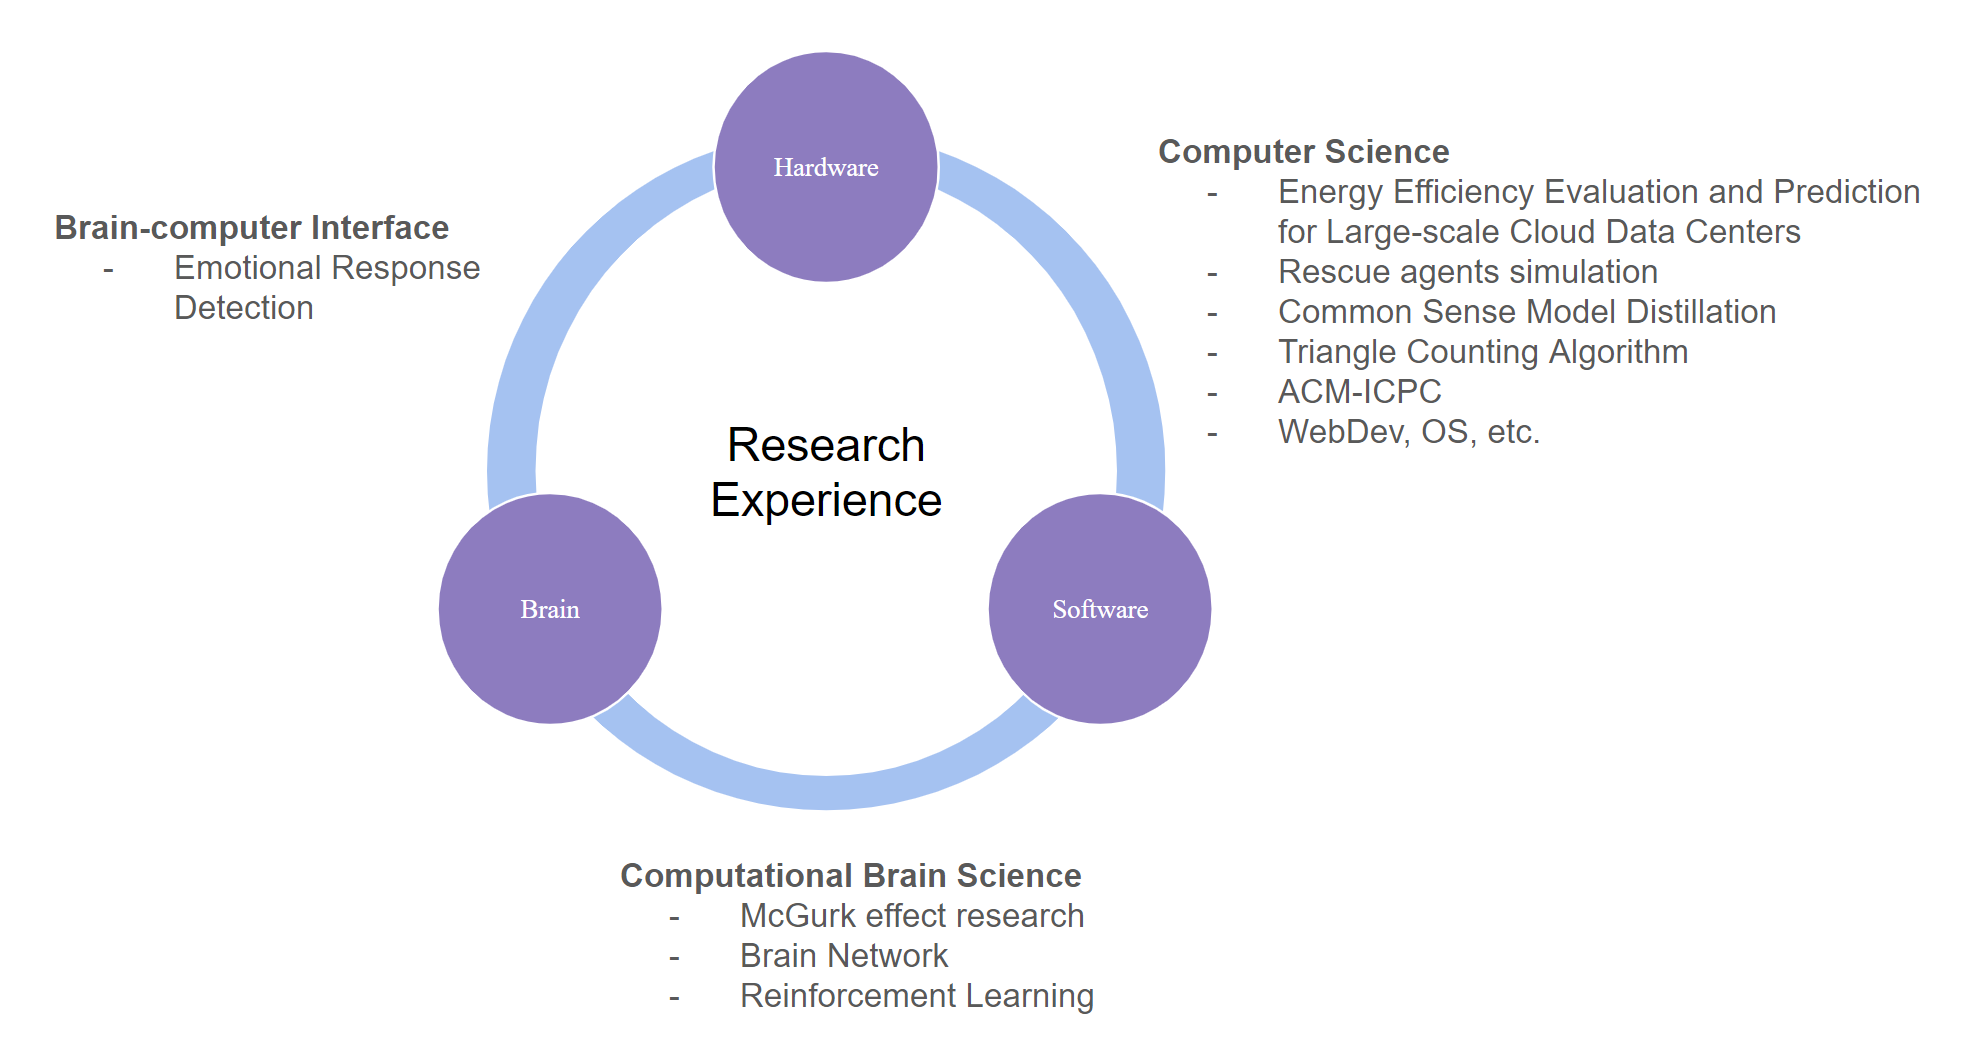
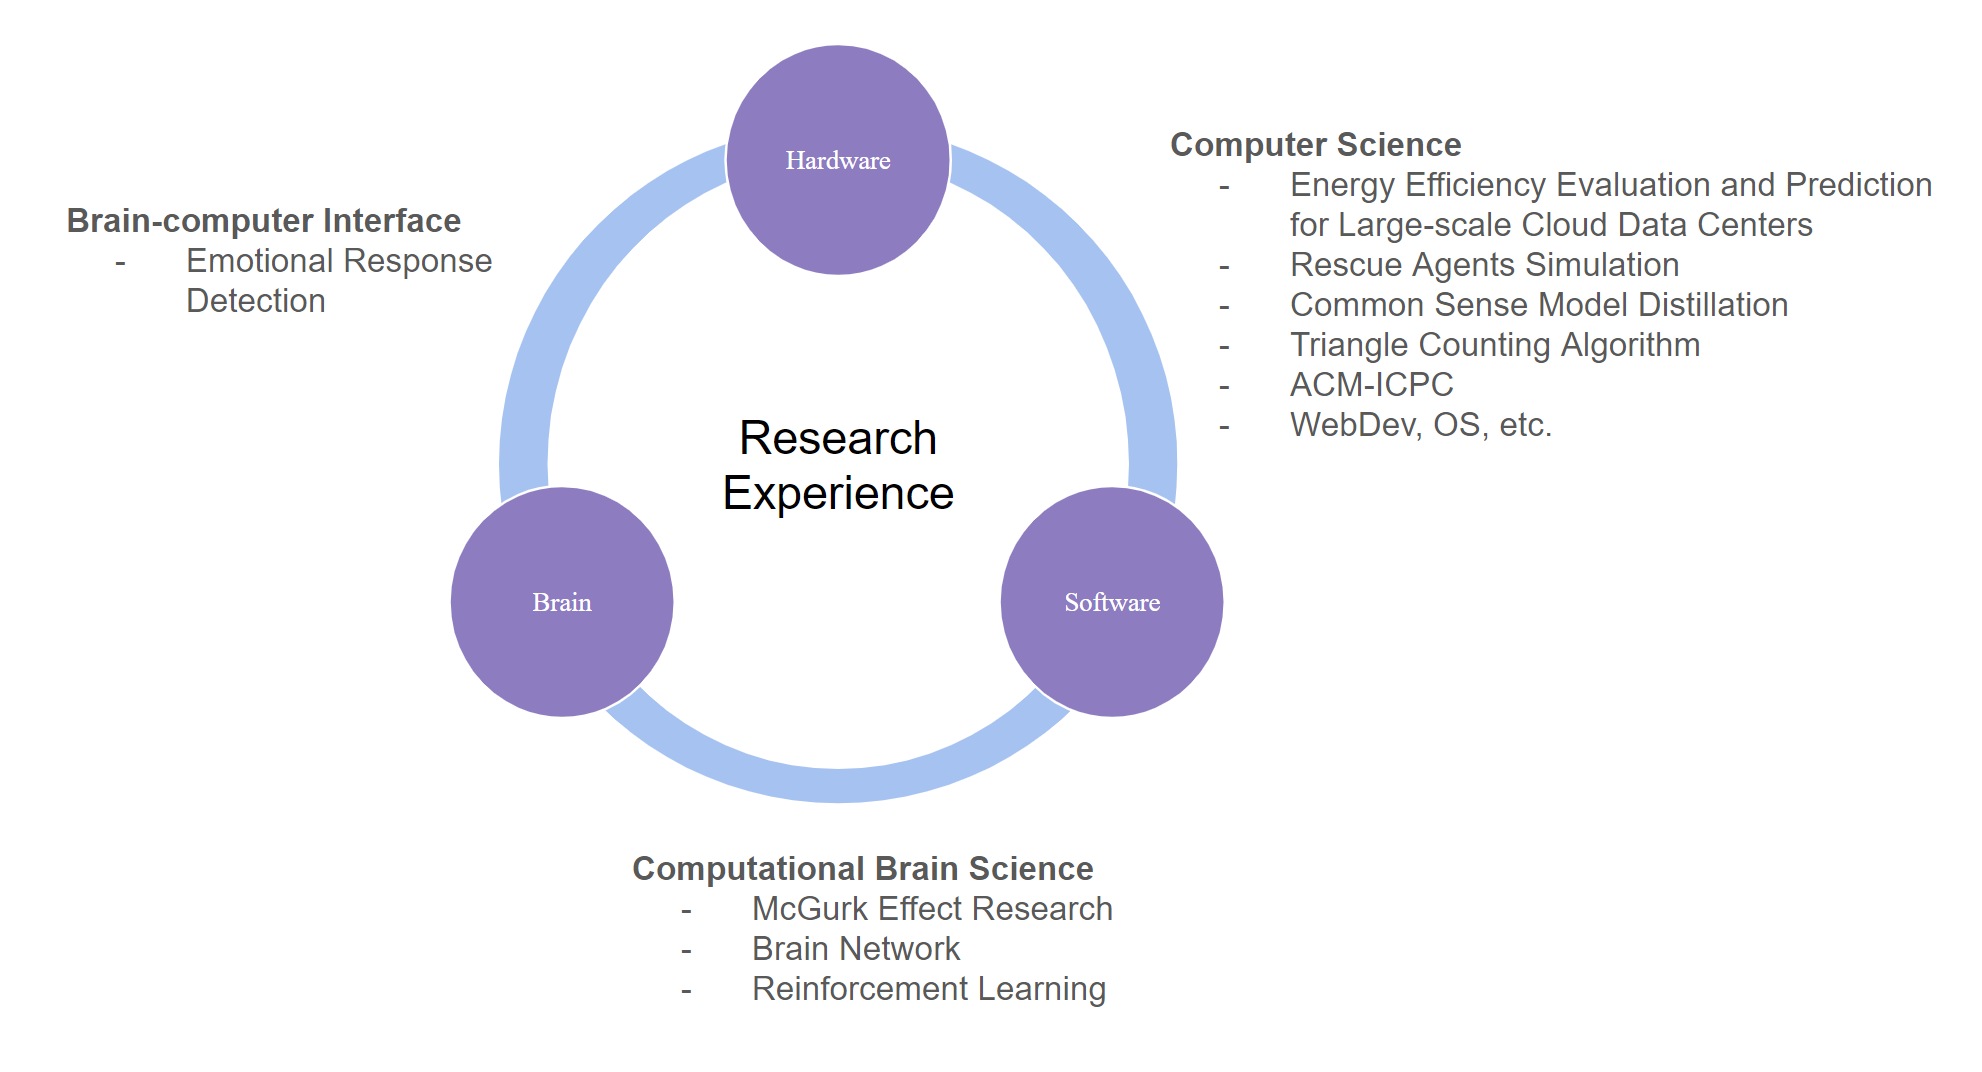
test

diff --git a/_pages/about.md b/_pages/about.md
@@ -22,9 +22,8 @@ My research interest lies in integrating **hardware and software** in both **com
 - **Overlap**: Brain-computer interface, illusion in machine, reinforcement learning, machine learning, multi-modal perception, consciousness, etc.
 
 <figure>  
-<img src="/images/research_interest.png" alt="Research Interest" style="width: 30%; display: block; margin-left: auto; margin-right: auto;"/>
+<img src="/images/research_interest.png" alt="Research Interest" style="width: 50%; display: block; margin-left: auto; margin-right: auto;"/>
 
-  <figcaption style="display: inline-block; text-align: center; margin-top: 10px;">Generated by AI, inspired by brain</figcaption>
 </figure>
 
 # Past experience
@@ -33,7 +32,6 @@ The same as my research interest, my past experiences can be categorized into **
 <figure>  
 <img src="/images/Research_experience.png" alt="Research Experience" style="width: 100%; display: inline-block; margin-left: auto; margin-right: auto;"/>
 
-  <figcaption style="display: inline-block; text-align: center; margin-top: 10px;">Generated by brain, inspired by brain</figcaption>
 </figure>
 
 ## Research experience 
@@ -77,7 +75,7 @@ Psychtoolbox and JACK for efficient data capture in a sound-proof booth</li>
 
 </details>
 
-### Energy Efficiency Evaluation and Prediction for Large-scale Cloud Data Centers  &nbsp; &nbsp; &nbsp;&nbsp; *Dec. 2018 - June 2021 *
+### Energy Efficiency Evaluation and Prediction for Large-scale Cloud Data Centers  &nbsp; &nbsp; &nbsp;&nbsp; *Dec. 2018 - June 2021*
 
 *Research Assistant*, NJUPT (Supervised by Professor Yun Li, Undergraduate Thesis)
 
@@ -137,11 +135,7 @@ Psychtoolbox and JACK for efficient data capture in a sound-proof booth</li>
 
 ### Common Sense Model Distillation Research [[Report](/assets/NLP_YuchenCao.pdf)] [[Github](https://github.com/purmecia/Sym_Model_Distill)]  &nbsp; &nbsp; &nbsp;&nbsp;   *Oct. 2022 - Dec. 2022*
 
-- Team Leader, Natural Language Processing (NLP) course design at Duke University
-
-- with Pytorch, Python, Numpy, Pandas
-
-
+- *Team Leader*, Natural Language Processing (NLP) course design at Duke University
 
 > Distilled 15 student models, including GPT2 and GPT, varying in size and architecture, from a large teacher language model, using corpus expansion and filtering techniques in Symbolic Knowledge Distillation, in order to determine the optimal design of a smaller language model that captures common-sense knowledge and to improve it
 
@@ -159,7 +153,7 @@ Psychtoolbox and JACK for efficient data capture in a sound-proof booth</li>
 
 ## Competition Experience
 
-### Design and Optimization of Triangle Counting Algorithm in Large-scale Graph Data   &nbsp; &nbsp; &nbsp;&nbsp;  *Sept. 2019 - Dec. 2019 *
+### Design and Optimization of Triangle Counting Algorithm in Large-scale Graph Data  &nbsp; &nbsp; &nbsp;&nbsp;  *Sept. 2019 - Dec. 2019*
 
 *Lead Developer*, Big Data & Computational Intelligence Contest (China Computer Federation)
 
@@ -172,7 +166,6 @@ Psychtoolbox and JACK for efficient data capture in a sound-proof booth</li>
 <ul>
 <li>Employed Compressed Sparse Rows format for graph representation, transformed the Triangle Counting Forward Algorithm into a parallel intersection algorithm based on Single Instruction Multiple Data on GPUs and devised slicing and crossing techniques for handling memory limitations</li>
 <li>Optimized GPU resource utilization through node-parallelism, multi-block delay hiding, and shared memory with atomic operations, ensuring both computational speed and accuracy</li>
-<li></li>
 </ul>
 
 <img src="/images/Triangle.png" alt="Triangle" style="width: 40%; display: inline-block;"/>  
@@ -250,19 +243,63 @@ NJUPT
 
 </details>
 
-
 ## Awards & Achievements
 
-| Award                                                | Year        |
-|------------------------------------------------------|-------------|
-| Excellent Undergraduate Thesis Award (Top 5%), NJUPT | 2021        |
-| Elite Student (Top 1%), NJUPT                        | 2019 & 2020 |
-| Enterprise Scholarship (Top 2%), NJUPT               | 2019        |
-| Excellent Social Work Award, NJUPT                   | 2018 & 2020 |
-| Top 3%, Big Data & Computational Intelligence Contest| 2019        |
-| Champion (First Prize), RoboCup China Open           | 2019        |
-| Silver Medal, The ACM-ICPC Asia Regional Contest     | 2018        |
-| Bronze Medal, China Collegiate Programming Contest   | 2018        |
+<style>
+.custom-table {
+  width: 100%;
+  border-collapse: collapse;
+}
+.custom-table th, .custom-table td {
+  border: 1px solid #ddd;
+  padding: 8px;
+}
+.custom-table th {
+  background-color: #f2f2f2;
+  text-align: left;
+}
+.custom-table tr:nth-child(even){background-color: #f9f9f9;}
+.custom-table tr:hover {background-color: #f1f1f1;}
+</style>
+
+<table class="custom-table">
+  <tr>
+    <th>Award</th>
+    <th>Year</th>
+  </tr>
+  <tr>
+    <td>Excellent Undergraduate Thesis Award (Top 5%), NJUPT</td>
+    <td>2021</td>
+  </tr>
+  <tr>
+    <td>Elite Student (Top 1%), NJUPT</td>
+    <td>2019 & 2020</td>
+  </tr>
+  <tr>
+    <td>Enterprise Scholarship (Top 2%), NJUPT</td>
+    <td>2019</td>
+  </tr>
+  <tr>
+    <td>Excellent Social Work Award, NJUPT</td>
+    <td>2018 & 2020</td>
+  </tr>
+  <tr>
+    <td>Top 3%, Big Data & Computational Intelligence Contest</td>
+    <td>2019</td>
+  </tr>
+  <tr>
+    <td>Champion (First Prize), RoboCup China Open</td>
+    <td>2019</td>
+  </tr>
+  <tr>
+    <td>Silver Medal, The ACM-ICPC Asia Regional Contest</td>
+    <td>2018</td>
+  </tr>
+  <tr>
+    <td>Bronze Medal, China Collegiate Programming Contest</td>
+    <td>2018</td>
+  </tr>
+</table>
 
 ## Core Competencies
 
